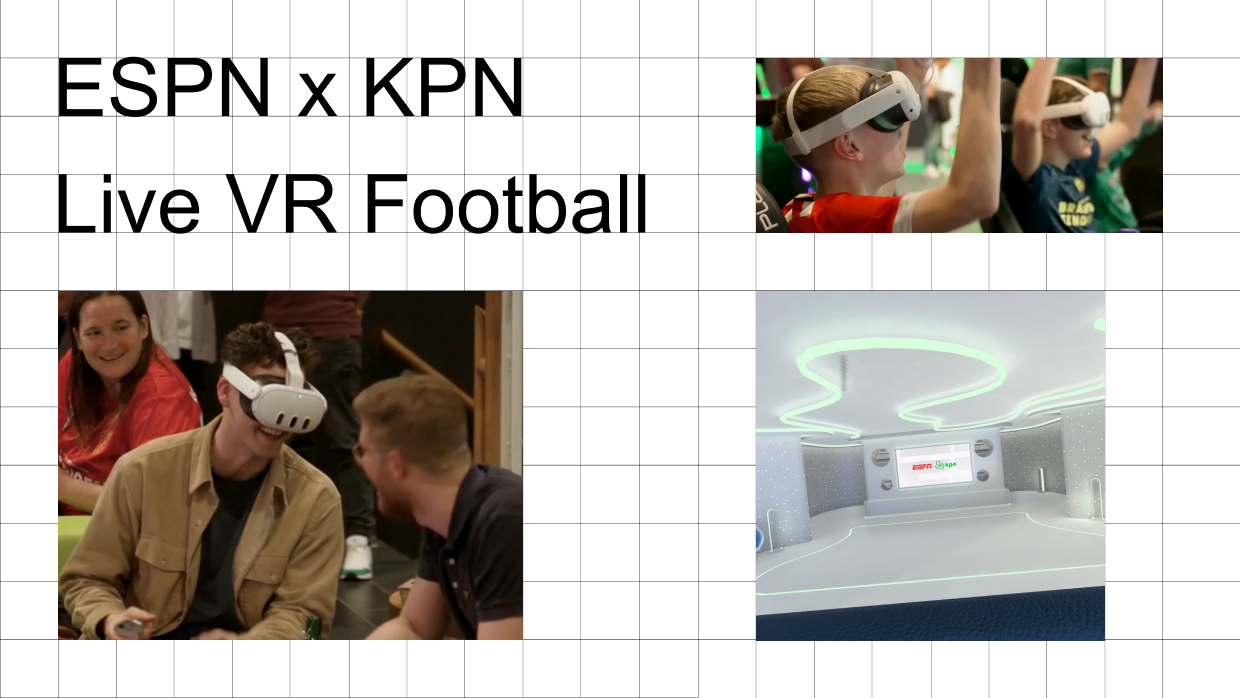
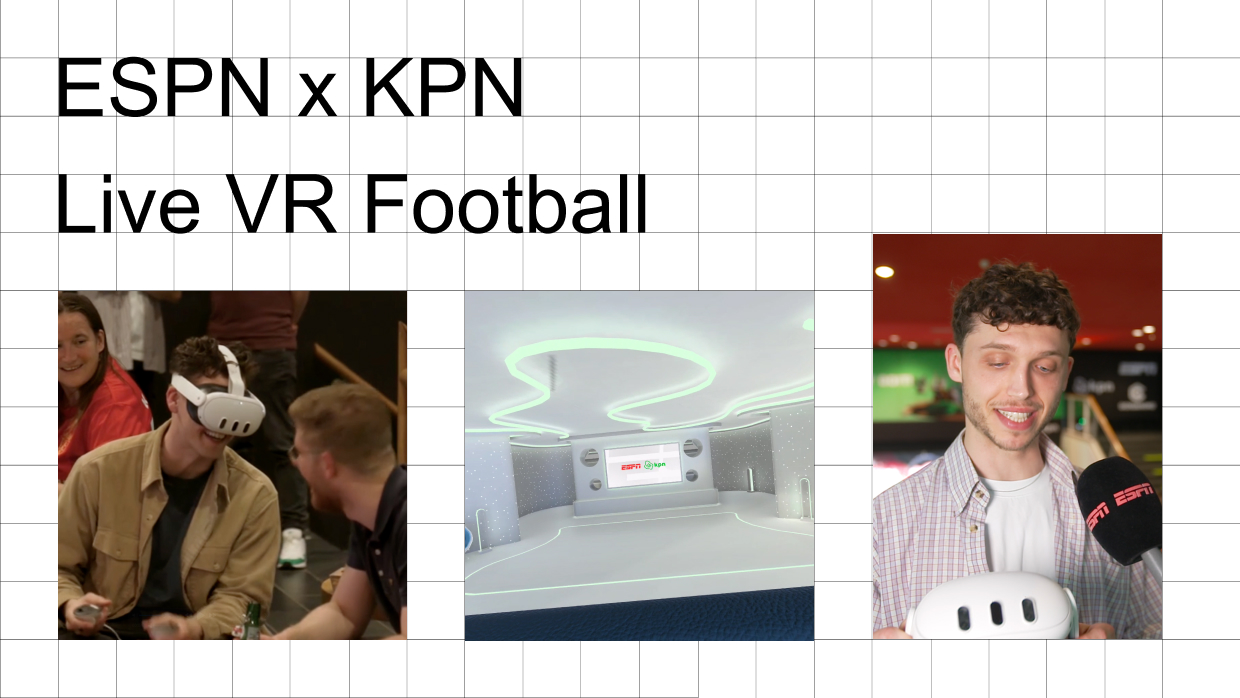
Update ESPN VR project details, enhance descriptions, and add media elements

diff --git a/_includes/framework/shortcodes/figure.html b/_includes/framework/shortcodes/figure.html
@@ -1,4 +1,4 @@
-<figure {% if include.full %} class="figure-full" {% endif %}>
+
   <a href="{{ include.link | relative_url }}" target="{{ include.target }}">
     <img src="{{ include.src | relative_url }}" alt="{{ include.alt }}">
   </a>

diff --git a/collections/_projects/espn-vr.md b/collections/_projects/espn-vr.md
@@ -1,18 +1,35 @@
 ---
 layout: post
-title: "Triple ESPN VR"
-description: "Triple ESPN VR"
+title: "Mixed Reality Live Football Match Stream for ESPN"
+description: "A Unity-based mixed reality experience live-streaming a PSV vs. AZ football match to VR headsets, developed as part of a collaboration with ESPN Netherlands and KPN."
 weight: 3
 thumbnail: "/assets/images/tripleinnovation/ESPNVR/ESPNVR_1.jpg"
-client: "Triple Innovation, Netherlands"
+client: "Triple Innovation, ESPN & KPN, Netherlands"
 ---
 
-<div class="image-wrapper">
-  <img src="/assets/images/tripleinnovation/ESPNVR/ESPN_1_1080.jpg" alt="ESPN VR Image 1">
-</div>
+In April 2023, I developed a mixed reality experience in collaboration with ESPN Netherlands, KPN, and TiledMedia. Using Unity, we live-streamed a PSV vs. AZ football match directly to VR headsets. This event offered viewers a 360° virtual skybox experience, creating the sensation of being physically present at the stadium while watching from the comfort of their homes.
 
-<div class="video-wrapper">
+The event was hosted as a one-day showcase where 60 headsets were provided for attendees to experience the match in real-time. This project not only highlighted the potential of immersive technology in sports broadcasting but also demonstrated the technical challenges and achievements of live VR streaming on a large scale.
+
+The project was promoted extensively, including this banner from ESPN's official website:
+
+<figure class="figure-full">
+  <img src="/assets/images/tripleinnovation/ESPNVR/ESPNVR_3.jpeg" alt="Promotional material for ESPN VR main event" />
+  <figcaption>
+    <p><a href="https://www.espn.nl/voetbal/artikel/_/id/14511883/bosz-wijzigt-basisopstelling-psv-op-twee-plaatsen-didden-vervangt-van-der-hoorn-bij-fc-utrecht">ESPN Promotional Image and Webpage for the Main Event</a></p>
+  </figcaption>
+</figure>
+
+This project showcased how VR can bridge the gap between live sports and at-home viewing, offering fans an immersive and interactive way to experience their favorite matches. It was an incredible opportunity to combine cutting-edge technology with live sports entertainment.
+
+<figure class="figure-full">
   <video class="plyr" controls crossorigin playsinline>
     <source src="/assets/images/tripleinnovation/ESPNVR/ESPN_2_1080.mp4" type="video/mp4">
   </video>
-</div>
+  <figcaption>
+    <h4>ESPN TV Interview</h4>
+    <p>
+      Segment highlighting the event and its impact.
+    </p>
+  </figcaption>
+</figure>

diff --git a/pages/home.md b/pages/home.md
@@ -6,6 +6,8 @@ description: "With a background in <code>Digital Design</code> and <code>Softwar
 meta_description: "James Milton @JAMESXDIGIAL"
 meta_title: JAMESXDIGIAL
 subscribe: false
+thumbnail: "/assets/images/motionreel/motiondesignshowreel.jpg"
+image: "/assets/images/motionreel/motiondesignshowreel.jpg"
 
 projects:
   heading: "" # "Projects"
